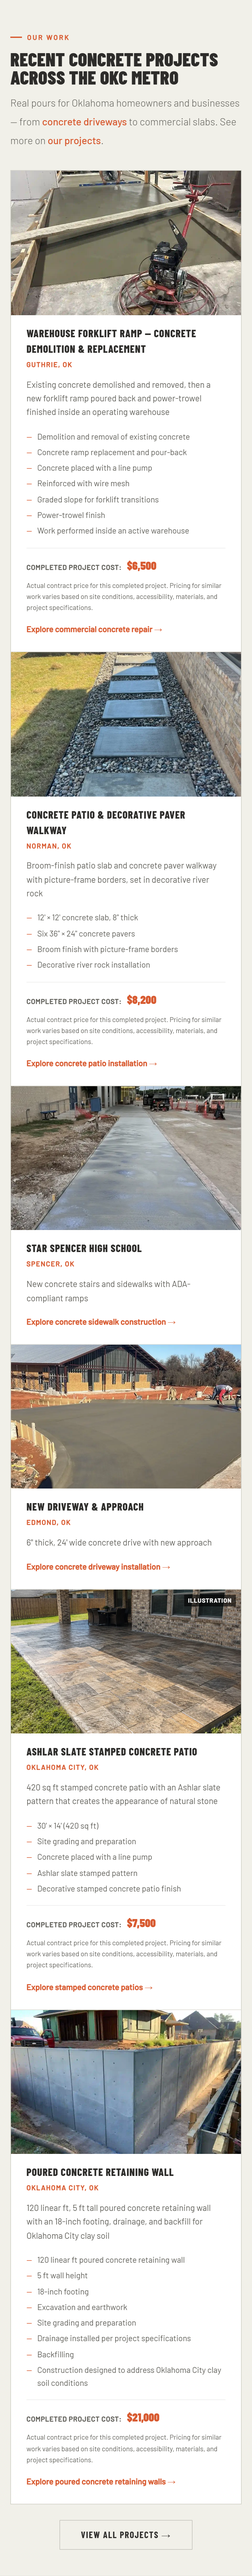
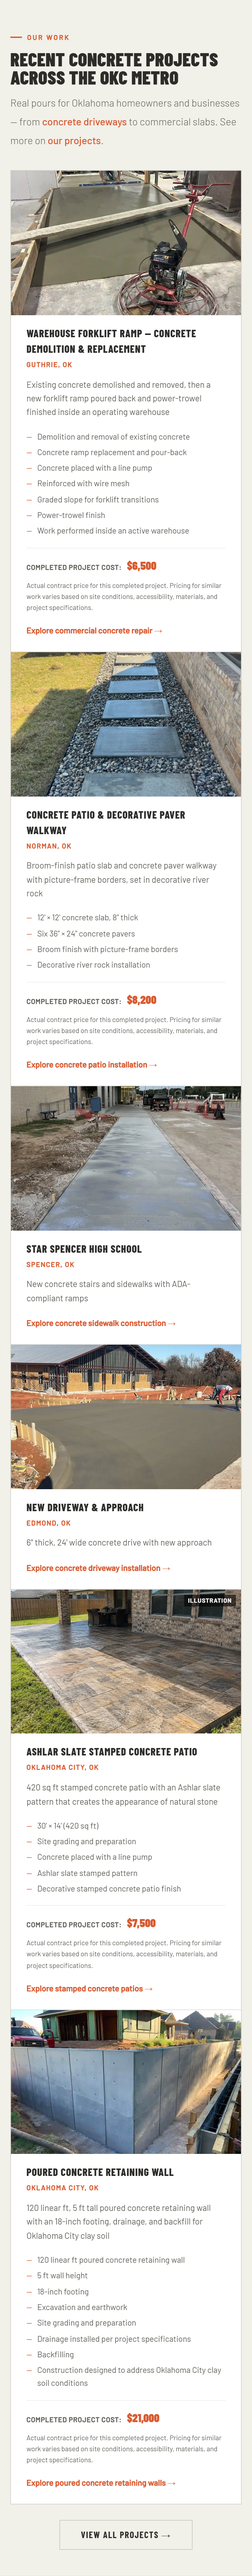
Enlarge project-card service link tap targets to 44px
Use min-h-[44px] with offsetting negative margins so the clickable area grows without moving the link text or changing card heights.

diff --git a/src/test/project-showcase.test.tsx b/src/test/project-showcase.test.tsx
@@ -474,6 +474,8 @@ describe("project-to-service internal links", () => {
       const card = screen.getByRole("heading", { name: getProjectById(id)!.title }).closest("article")!;
       const link = within(card).getByRole("link", { name: label });
       expect(link.getAttribute("href")).toBe(href);
+      expect(link.textContent).toBe(`${label} →`);
+      expect(link.className).toContain("min-h-[44px]");
       expect(link.getAttribute("rel")).toBeNull();
       expect(link.getAttribute("target")).toBeNull();
     }
@@ -509,6 +511,8 @@ describe("project-to-service internal links", () => {
         name: p.serviceLinkLabel,
       });
       expect(link.getAttribute("href")).toBe(p.ownerPath);
+      expect(link.textContent).toBe(`${p.serviceLinkLabel} →`);
+      expect(link.className).toContain("min-h-[44px]");
     }
   });
 

diff --git a/src/components/ProjectCard.tsx b/src/components/ProjectCard.tsx
@@ -54,8 +54,13 @@ export default function ProjectCard({ project, badge }: ProjectCardProps) {
         <ProjectSpecs project={project} />
       </div>
       {!isOwnerPage && (
-        <Link to={project.ownerPath} className="text-orange no-underline text-[0.78rem] font-semibold">
-          {project.serviceLinkLabel} <span aria-hidden="true">→</span>
+        <Link
+          to={project.ownerPath}
+          className="inline-flex items-center min-h-[44px] -mt-[10px] -mb-[14px] text-orange no-underline text-[0.78rem] font-semibold"
+        >
+          <span>
+            {project.serviceLinkLabel} <span aria-hidden="true">→</span>
+          </span>
         </Link>
       )}
     </article>

diff --git a/src/pages/OurProjects.tsx b/src/pages/OurProjects.tsx
@@ -454,9 +454,11 @@ export default function OurProjects() {
               </div>
               <Link
                 to={p.ownerPath}
-                className="inline-block mt-4 text-orange no-underline text-[0.78rem] font-semibold"
+                className="flex w-fit items-center min-h-[44px] mt-[6px] -mb-[14px] text-orange no-underline text-[0.78rem] font-semibold"
               >
-                {p.serviceLinkLabel} <span aria-hidden="true">→</span>
+                <span>
+                  {p.serviceLinkLabel} <span aria-hidden="true">→</span>
+                </span>
               </Link>
             </div>
           ))}
